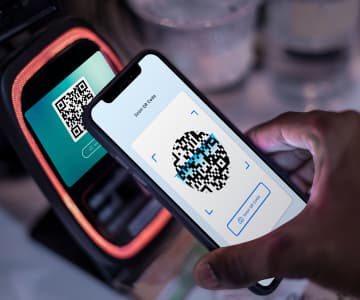
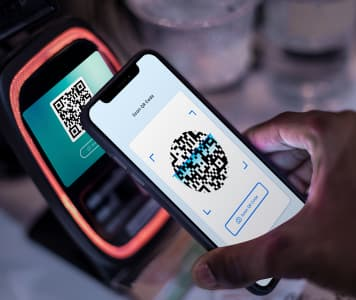
added retina and flexible images

diff --git a/index.html b/index.html
@@ -13,7 +13,7 @@
       rel="stylesheet"
     />
     <link rel="stylesheet" href="https://cdn.jsdelivr.net/npm/modern-normalize@2.0.0/modern-normalize.min.css">
-    <link rel="stylesheet" href="./css/styles.css?2" />
+    <link rel="stylesheet" href="./css/styles.css?3" />
 
     <title>WebStudio</title>
 </head>
@@ -90,7 +90,7 @@
                 <h2 class="lvl-two sect-team-header">Our Team</h2>
                 <ul class="sect-team-list">
                     <li class="sect-team-list-itm">
-                        <img src="./images/mark_guerrero.jpg" width="264" height="260" alt="Mark Guerrero" />
+                        <img src="./images/mark_guerrero.jpg" srcset="./images/mark_guerrero.jpg 1x, ./images/mark_guerrero@2x.jpg 2x" width="264" height="260" alt="Mark Guerrero" />
                         <div class="sect-team-content" >
                             <h3 class="lvl-three">Mark Guerrero</h3>
                             <p class="sect-team-txt">Product Designer</p>
@@ -119,7 +119,7 @@
                         </div>
                     </li>
                     <li class="sect-team-list-itm">
-                        <img src="./images/tom_ford.jpg" width="264" height="260" alt="Tom Ford" />
+                        <img src="./images/tom_ford.jpg" srcset="./images/tom_ford.jpg 1x, ./images/tom_ford@2x.jpg 2x" width="264" height="260" alt="Tom Ford" />
                         <div class="sect-team-content" >
                             <h3 class="lvl-three">Tom Ford</h3>
                             <p class="sect-team-txt">Frontend Developer</p>
@@ -148,7 +148,7 @@
                         </div>
                     </li>
                     <li class="sect-team-list-itm">
-                        <img src="./images/camila_garcia.jpg" width="264" height="260" alt="Camila Garcia" />
+                        <img src="./images/camila_garcia.jpg" srcset="./images/camila_garcia.jpg 1x, ./images/camila_garcia@2x.jpg 2x"width="264" height="260" alt="Camila Garcia" />
                         <div class="sect-team-content">
                             <h3 class="lvl-three">Camila Garcia</h3>
                             <p class="sect-team-txt">Marketing</p>
@@ -177,7 +177,7 @@
                         </div>
                     </li>
                     <li class="sect-team-list-itm">
-                        <img src="./images/daniel_wilson.jpg" width="264" height="260" alt="Daniel Wilson" />
+                        <img src="./images/daniel_wilson.jpg" srcset="./images/daniel_wilson.jpg 1x, ./images/daniel_wilson@2x.jpg 2x"width="264" height="260" alt="Daniel Wilson" />
                         <div class="sect-team-content" >
                             <h3 class="lvl-three">Daniel Wilson</h3>
                             <p class="sect-team-txt">UI Designer</p>
@@ -215,7 +215,8 @@
                 <ul class="sect-portfolio-list">
                     <li class="sect-portfolio-item">
                         <div class="sect-portfolio-img" >
-                            <img src="./images/banking_app.jpg" width="360" alt="Banking App" />
+                            <img class="spi-mobile" src="./images/banking_app-m.jpg" srcset="./images/banking_app-m.jpg 1x, ./images/banking_app@2x.jpg 2x" width="288" height="280" alt="Banking App" loading="lazy" />
+                            <img class="spi-normal" src="./images/banking_app.jpg" srcset="./images/banking_app.jpg 1x, ./images/banking_app@2x.jpg 2x" width="360" height="300" alt="Banking App" loading="lazy" />
                             <p class="sect-portfolio-overlay">14 Stylish and User-Friendly App Design Concepts · Task Manager App · Calorie Tracker App · Exotic Fruit Ecommerce App · Cloud Storage App</p>
                         </div>
                         <div class="sect-portfolio-content" >
@@ -225,7 +226,8 @@
                     </li>
                     <li class="sect-portfolio-item">
                         <div class="sect-portfolio-img" >
-                            <img src="./images/cashies_payment.jpg" width="360" alt="Cashless Payment" />
+                            <img class="spi-mobile" src="./images/cashies_payment-m.jpg" srcset="./images/cashies_payment-m.jpg 1x, ./images/cashies_payment-m@2x.jpg 2x" width="288" height="280" alt="Cashless Payment" loading="lazy" />
+                            <img class="spi-normal" src="./images/cashies_payment.jpg" srcset="./images/cashies_payment.jpg 1x, ./images/cashies_payment@2x.jpg 2x" width="360" height="300" alt="Cashless Payment" loading="lazy" />
                             <p class="sect-portfolio-overlay">14 Stylish and User-Friendly App Design Concepts · Task Manager App · Calorie Tracker App · Exotic Fruit Ecommerce App · Cloud Storage App</p>
                         </div>
                         <div class="sect-portfolio-content" >
@@ -235,7 +237,8 @@
                     </li>
                     <li class="sect-portfolio-item">
                         <div class="sect-portfolio-img" >
-                            <img src="./images/meditation_app.jpg" width="360" alt="Meditation App"/>
+                            <img class="spi-mobile" src="./images/meditation_app-m.jpg" srcset="./images/meditation_app-m.jpg 1x, ./images/meditation_app-m@2x.jpg 2x" width="288" height="280" alt="Meditation App" loading="lazy" />
+                            <img class="spi-normal" src="./images/meditation_app.jpg" srcset="./images/meditation_app.jpg 1x, ./images/meditation_app@2x.jpg 2x" width="360" height="300" alt="Meditation App" loading="lazy" />
                             <p class="sect-portfolio-overlay">14 Stylish and User-Friendly App Design Concepts · Task Manager App · Calorie Tracker App · Exotic Fruit Ecommerce App · Cloud Storage App</p>
                         </div>
                         <div class="sect-portfolio-content" >
@@ -245,7 +248,8 @@
                     </li>
                     <li class="sect-portfolio-item">
                         <div class="sect-portfolio-img" >
-                            <img src="./images/taxi_service.jpg" width="360" alt="Taxi Service" />
+                            <img class="spi-mobile" src="./images/taxi_service-m.jpg" srcset="./images/taxi_service-m.jpg 1x, ./images/taxi_service-m@2x.jpg 2x" width="288" height="280" alt="Taxi Service" loading="lazy" />
+                            <img class="spi-normal" src="./images/taxi_service.jpg" srcset="./images/taxi_service.jpg 1x, ./images/taxi_service@2x.jpg 2x" width="360" height="300" alt="Taxi Service" loading="lazy" />
                             <p class="sect-portfolio-overlay">14 Stylish and User-Friendly App Design Concepts · Task Manager App · Calorie Tracker App · Exotic Fruit Ecommerce App · Cloud Storage App</p>
                         </div>
                         <div class="sect-portfolio-content" >
@@ -255,7 +259,8 @@
                     </li>
                     <li class="sect-portfolio-item">
                         <div class="sect-portfolio-img" >
-                            <img src="./images/screen_illustrations.jpg" width="360" alt="Screen Illustrations" />
+                            <img class="spi-mobile" src="./images/screen_illustrations-m.jpg" srcset="./images/screen_illustrations-m.jpg 1x, ./images/screen_illustrations-m@2x.jpg 2x" width="288" height="280" alt="Screen Illustrations" loading="lazy" />
+                            <img class="spi-normal" src="./images/screen_illustrations.jpg" srcset="./images/screen_illustrations.jpg 1x, ./images/screen_illustrations@2x.jpg 2x"width="360" height="300" alt="Screen Illustrations" loading="lazy" />
                             <p class="sect-portfolio-overlay">14 Stylish and User-Friendly App Design Concepts · Task Manager App · Calorie Tracker App · Exotic Fruit Ecommerce App · Cloud Storage App</p>
                         </div>
                         <div class="sect-portfolio-content" >
@@ -265,7 +270,8 @@
                     </li>
                     <li class="sect-portfolio-item">
                         <div class="sect-portfolio-img" >
-                            <img src="./images/online_courses.jpg" width="360" alt="Online Courses" />
+                            <img class="spi-mobile" src="./images/online_courses-m.jpg" srcset="./images/online_courses-m.jpg 1x, ./images/online_courses-m@2x.jpg 2x" width="288" height="280" alt="Online Courses" loading="lazy" />
+                            <img class="spi-normal" src="./images/online_courses.jpg" srcset="./images/online_courses.jpg 1x, ./images/online_courses@2x.jpg 2x" width="360" height="300" alt="Online Courses" loading="lazy" />
                             <p class="sect-portfolio-overlay">14 Stylish and User-Friendly App Design Concepts · Task Manager App · Calorie Tracker App · Exotic Fruit Ecommerce App · Cloud Storage App</p>
                         </div>
                         <div class="sect-portfolio-content" >

diff --git a/css/styles.css b/css/styles.css
@@ -132,7 +132,7 @@ img {
     justify-content: space-between;
     padding: 16px;
 }
-@media screen and (min-width: 767px) {
+@media screen and (min-width: 768px) {
     .header .container {
         padding: inherit;
     }
@@ -159,7 +159,7 @@ img {
 .header-addr-list {
     flex-direction: column;
 }
-@media only screen and (min-width: 767px) {
+@media only screen and (min-width: 768px) {
     .header-nav-list, 
     .header-addr-list {
         display: flex;
@@ -251,7 +251,7 @@ img {
     align-items: center;
     justify-content: center;
 }
-@media only screen and (min-width: 767px) {
+@media only screen and (min-width: 768px) {
     .header-mobile-menu-btn {
         display: none;
     }
@@ -292,7 +292,7 @@ img {
 .sect-main {
     color: var(--section-main-text);
     background-color: var(--bg-accent);
-    background-image: linear-gradient(rgba(46, 47, 66, 0.7), rgba(46, 47, 66, 0.7)), url(../images/people-office.jpg);
+    background-image: linear-gradient(rgba(46, 47, 66, 0.7), rgba(46, 47, 66, 0.7)), url(../images/bg-main-m.jpg);
     background-size: cover;
     background-position: center;
     background-repeat: no-repeat;
@@ -300,10 +300,31 @@ img {
     max-width: 357;
     margin: 0 auto;
 }
-@media only screen and (min-width: 767px) {
+@media only screen and (max-width: 767px) and (min-resolution: 192dpi) {
+    .sect-main {
+        background-image: linear-gradient(rgba(46, 47, 66, 0.7), rgba(46, 47, 66, 0.7)), url(../images/bg-main-m@2x.jpg);
+    }
+}
+@media only screen and (min-width: 768px) {
     .sect-main { 
+        background-image: linear-gradient(rgba(46, 47, 66, 0.7), rgba(46, 47, 66, 0.7)), url(../images/bg-main-t.jpg);
         padding: 188px 0;
         max-width: 1440px;
+    }
+}
+@media only screen and (min-width: 768px) and (min-resolution: 192dpi) {
+    .sect-main { 
+        background-image: linear-gradient(rgba(46, 47, 66, 0.7), rgba(46, 47, 66, 0.7)), url(../images/bg-main-t@2x.jpg);
+    }
+}
+@media only screen and (min-width: 1158px) {
+    .sect-main { 
+        background-image: linear-gradient(rgba(46, 47, 66, 0.7), rgba(46, 47, 66, 0.7)), url(../images/bg-main-d.jpg);
+    }
+}
+@media only screen and (min-width: 1158px) and (min-resolution: 192dpi) {
+    .sect-main { 
+        background-image: linear-gradient(rgba(46, 47, 66, 0.7), rgba(46, 47, 66, 0.7)), url(../images/bg-main-d@2x.jpg);
     }
 }
 .sec-main .container {
@@ -318,7 +339,7 @@ img {
     letter-spacing: 0.02em;
     width: 216px;
 }
-@media only screen and (min-width: 767px) {
+@media only screen and (min-width: 768px) {
     .sect-main-header {
         margin: 0 auto 50px auto;
         max-width: 496px;
@@ -358,7 +379,7 @@ img {
     flex-direction: column;
     gap: 72px;
 }
-@media only screen and (min-width: 767px) {
+@media only screen and (min-width: 768px) {
     .sect-studio-list {
         flex-direction: row;
         gap: 24px;
@@ -386,7 +407,7 @@ img {
         text-align: center;
     }
 }
-@media only screen and (min-width: 767px) and (max-width: 1158px) {
+@media only screen and (min-width: 768px) and (max-width: 1158px) {
     .sect-studio-item > .lvl-three {
         text-align: left;
     }
@@ -438,7 +459,7 @@ img {
     justify-content: center;
     align-items: center;
 }
-@media only screen and (min-width: 767px) {
+@media only screen and (min-width: 768px) {
     .sect-team-list {
         flex-direction: row;
         flex-wrap: wrap;
@@ -524,7 +545,7 @@ img {
     align-items: center;
     justify-content: center;
 }
-@media only screen and (min-width: 767px) {
+@media only screen and (min-width: 768px) {
     .sect-portfolio-list {
         gap: 24px;
         flex-direction: row;
@@ -541,7 +562,7 @@ img {
     width: 288px;
     transition: box-shadow 250ms cubic-bezier(0.4, 0, 0.2, 1);
 }
-@media only screen and (min-width: 767px) {
+@media only screen and (min-width: 768px) {
     .sect-portfolio-item {
         width: calc((100% - 24px) / 2);
     }
@@ -580,6 +601,17 @@ img {
 .sect-portfolio-img img {
     width: 100%;
 }
+.spi-normal {
+    display: none;
+}
+@media only screen and (min-width: 768px) {
+    .spi-mobile {
+        display: none;
+    }
+    .spi-normal {
+        display: block;
+    }
+}
 .sect-portfolio-content {
     border-bottom: 1px solid var(--portfolio-brd);
     border-left: 1px solid var(--portfolio-brd);
@@ -606,7 +638,7 @@ img {
     align-items: center;
     justify-content: center;
 }
-@media only screen and (min-width: 767px) {
+@media only screen and (min-width: 768px) {
     .footer .container {
         flex-direction: row;
         flex-wrap: wrap;
@@ -630,7 +662,7 @@ img {
     display: flex;
     flex-direction: column;
 }
-@media only screen and (min-width: 767px) {
+@media only screen and (min-width: 768px) {
     .footer-logo-cnt {
         width: auto;
     }
@@ -644,7 +676,7 @@ img {
     display: inline-block;
     margin: 0 auto 16px auto;
 }
-@media only screen and (min-width: 767px) {
+@media only screen and (min-width: 768px) {
     .footer-logo-cnt .logo {
         margin: 0 0 16px 0;
     }
@@ -661,7 +693,7 @@ img {
     flex-direction: column;
     align-items: center;
 }
-@media only screen and (min-width: 767px) {
+@media only screen and (min-width: 768px) {
     .footer-social-cnt {
         align-items: baseline;
         margin: 0 80px 0 0;
@@ -677,7 +709,7 @@ img {
     margin-bottom: 16px;
     text-align: center;
 }
-@media only screen and (min-width: 767px) {
+@media only screen and (min-width: 768px) {
     .footer-social-txt,
     .footer-subscribe-txt {
         text-align: left;
@@ -715,7 +747,7 @@ img {
     align-items: center;
     gap: 24px;
 }
-@media only screen and (min-width: 767px) {
+@media only screen and (min-width: 768px) {
     .footer-subscribe-form {
         flex-direction: row;
         align-items: center;
